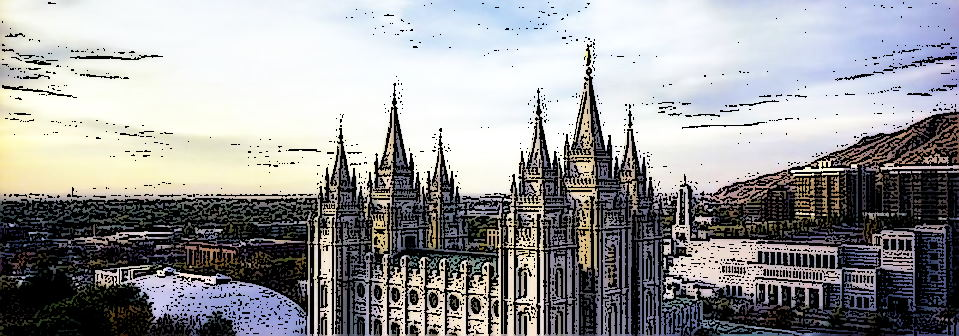
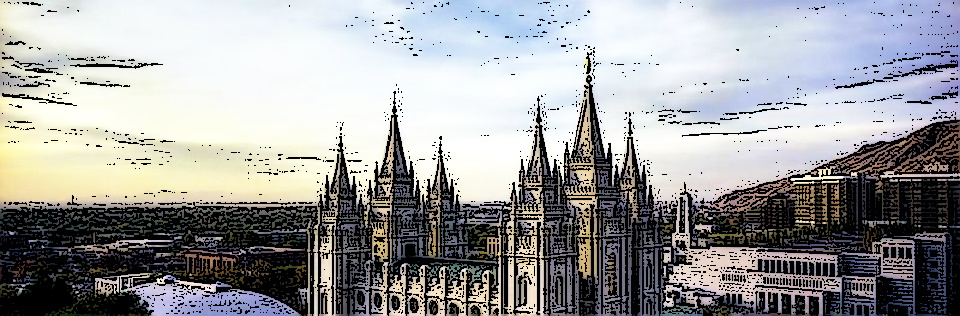
Fix hero image width

diff --git a/project/css/style.css b/project/css/style.css
@@ -134,10 +134,6 @@ nav a:hover {
 nav a.active {
   border-bottom: 4px solid var(--accent3-color);
 }
-div.hero img {
-  width: 100%;
-  height: auto;
-}
 section img {
   box-shadow: .5rem .5rem 1rem .1rem var(--tertiary-color);
   margin-bottom: 1rem;
